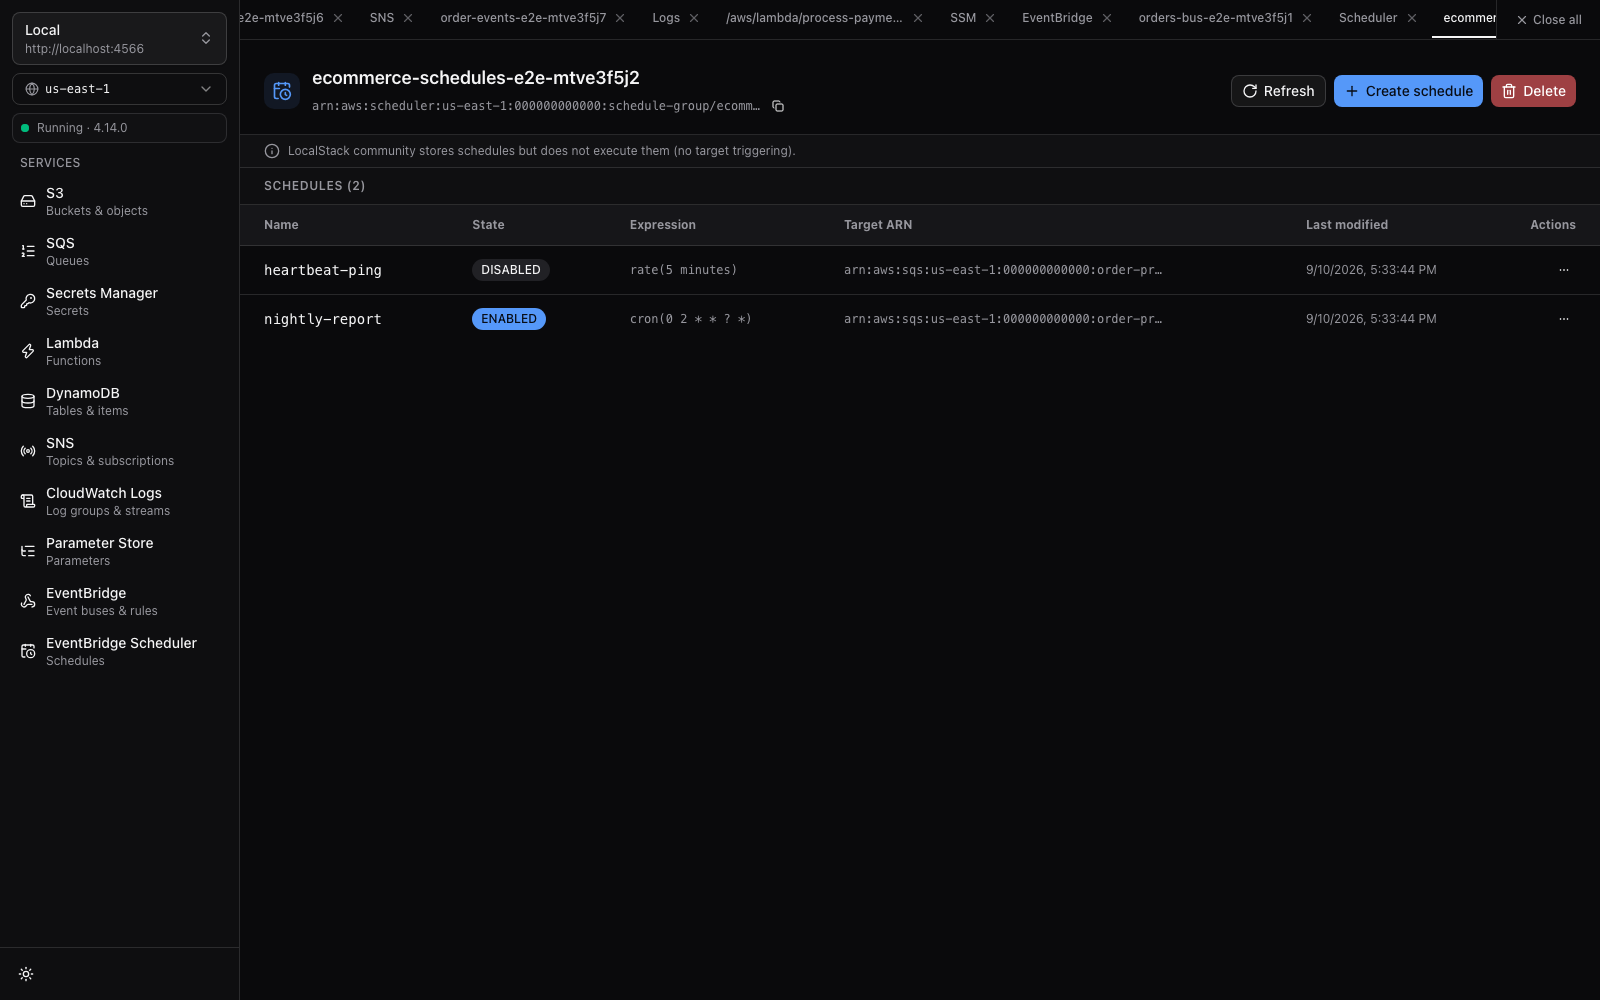
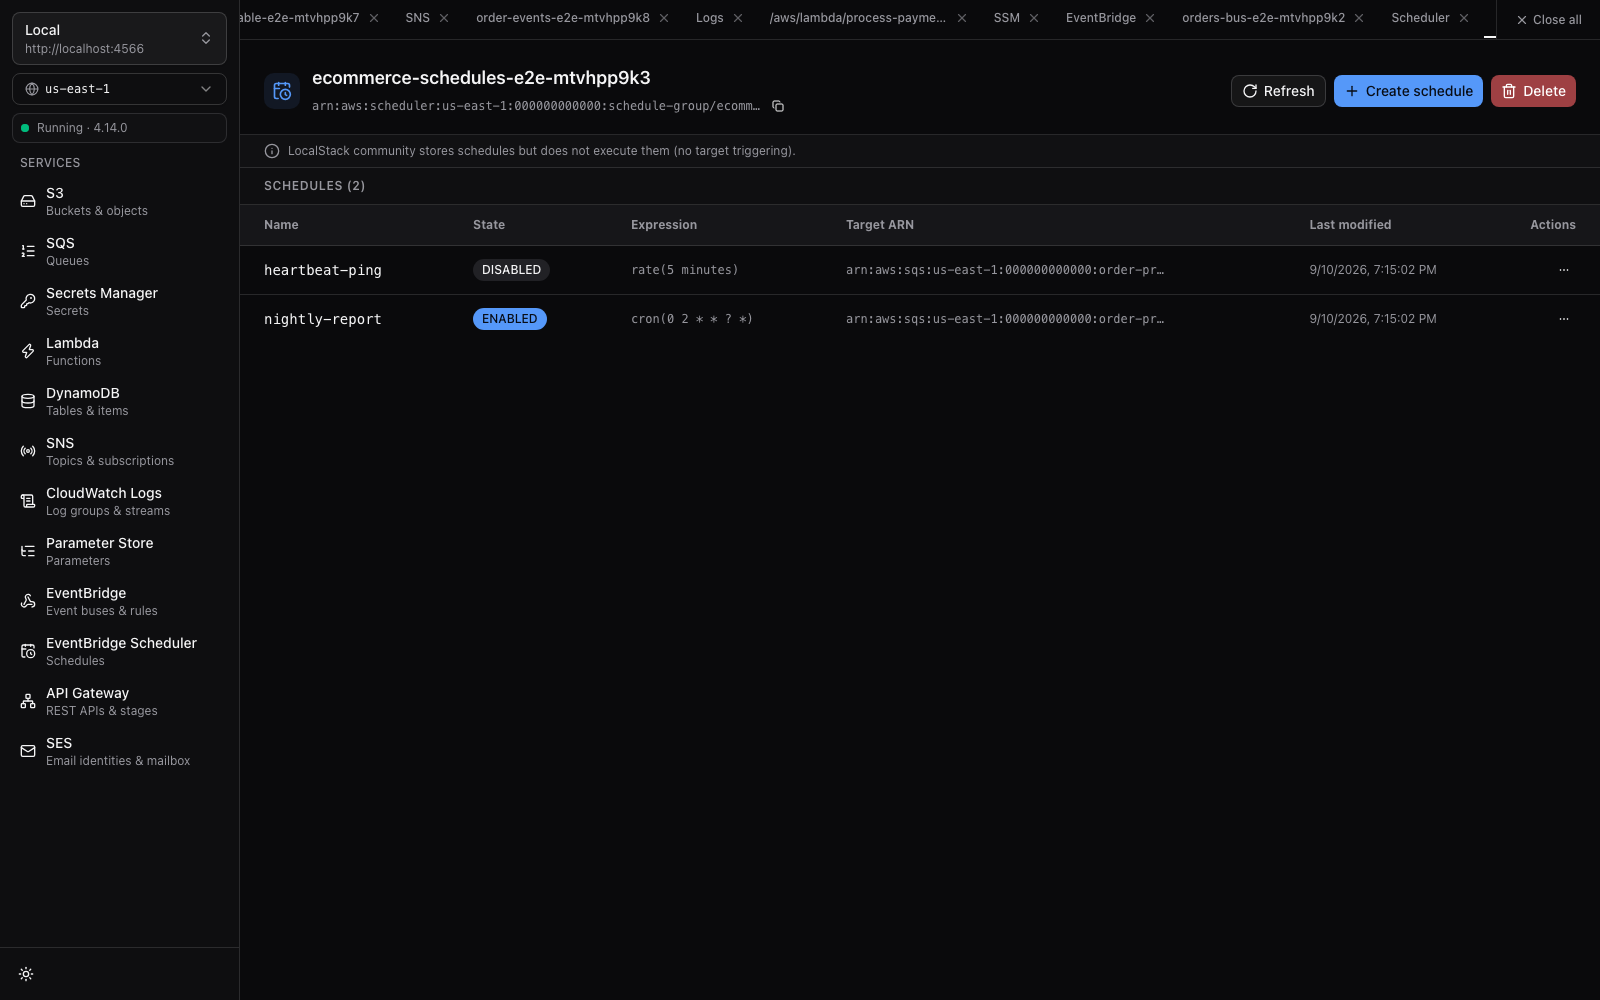
docs: mark M8 shipped with screenshots

diff --git a/e2e/screenshots.spec.ts b/e2e/screenshots.spec.ts
@@ -53,6 +53,22 @@ import {
   DeleteScheduleGroupCommand,
   DeleteScheduleCommand,
 } from "@aws-sdk/client-scheduler";
+import {
+  CreateRestApiCommand,
+  GetResourcesCommand,
+  CreateResourceCommand,
+  PutMethodCommand,
+  PutIntegrationCommand,
+  PutMethodResponseCommand,
+  PutIntegrationResponseCommand,
+  CreateDeploymentCommand,
+  DeleteRestApiCommand,
+} from "@aws-sdk/client-api-gateway";
+import {
+  VerifyEmailIdentityCommand,
+  SendEmailCommand,
+  DeleteIdentityCommand,
+} from "@aws-sdk/client-ses";
 import { GetQueueAttributesCommand } from "@aws-sdk/client-sqs";
 import { zipSync, strToU8 } from "fflate";
 import { requireLocalStack, makeClients, unique } from "./helpers";
@@ -60,7 +76,10 @@ import { requireLocalStack, makeClients, unique } from "./helpers";
 test.describe("@screenshot Capture screenshots", () => {
   test.use({ viewport: { width: 1600, height: 1000 } });
 
-  const { s3, sqs, lambda, dynamodb, dynamoDoc, sns, logs, ssm, eventbridge, scheduler } = makeClients();
+  const { s3, sqs, lambda, dynamodb, dynamoDoc, sns, logs, ssm, eventbridge, scheduler, apigateway, ses } = makeClients();
+  const apiName = unique("petstore-api");
+  let restApiId: string;
+  const sesSender = "team@localstacker.dev";
   const ebBusName = unique("orders-bus");
   const ebRuleName = "order-placed-rule";
   const schedGroupName = unique("ecommerce-schedules");
@@ -339,6 +358,89 @@ test.describe("@screenshot Capture screenshots", () => {
         State: "DISABLED",
       }),
     );
+
+    // 10. Seed API Gateway REST API
+    const apiRes = await apigateway.send(
+      new CreateRestApiCommand({
+        name: apiName,
+        description: "Petstore REST API with stages",
+      }),
+    );
+    restApiId = apiRes.id!;
+    const resourcesRes = await apigateway.send(
+      new GetResourcesCommand({ restApiId, embed: ["methods"] }),
+    );
+    const rootRes = resourcesRes.items?.find((r) => r.path === "/");
+    const rootId = rootRes?.id!;
+    const petRes = await apigateway.send(
+      new CreateResourceCommand({
+        restApiId,
+        parentId: rootId,
+        pathPart: "pets",
+      }),
+    );
+    const petId = petRes.id!;
+
+    await apigateway.send(
+      new PutMethodCommand({
+        restApiId,
+        resourceId: petId,
+        httpMethod: "GET",
+        authorizationType: "NONE",
+        apiKeyRequired: false,
+      }),
+    );
+    await apigateway.send(
+      new PutIntegrationCommand({
+        restApiId,
+        resourceId: petId,
+        httpMethod: "GET",
+        type: "MOCK",
+        requestTemplates: { "application/json": '{"statusCode": 200}' },
+      }),
+    );
+    await apigateway.send(
+      new PutMethodResponseCommand({
+        restApiId,
+        resourceId: petId,
+        httpMethod: "GET",
+        statusCode: "200",
+      }),
+    );
+    await apigateway.send(
+      new PutIntegrationResponseCommand({
+        restApiId,
+        resourceId: petId,
+        httpMethod: "GET",
+        statusCode: "200",
+        responseTemplates: {
+          "application/json": '{"message":"mock response"}',
+        },
+      }),
+    );
+    await apigateway.send(
+      new CreateDeploymentCommand({ restApiId, stageName: "dev" }),
+    );
+
+    // 11. Seed SES identity and message
+    await ses.send(new VerifyEmailIdentityCommand({ EmailAddress: sesSender }));
+    await ses.send(
+      new SendEmailCommand({
+        Source: sesSender,
+        Destination: { ToAddresses: ["developer@localstacker.dev"] },
+        Message: {
+          Subject: { Data: "Welcome to LocalStacker" },
+          Body: {
+            Html: {
+              Data: "<h1>Welcome to LocalStacker</h1><p>Your local cloud environment is running smoothly.</p>",
+            },
+            Text: {
+              Data: "Welcome to LocalStacker. Your local cloud environment is running smoothly.",
+            },
+          },
+        },
+      }),
+    );
   });
 
   test.afterAll(async () => {
@@ -445,6 +547,22 @@ test.describe("@screenshot Capture screenshots", () => {
       ).catch(() => {});
     } catch (err) {
       console.warn("Scheduler cleanup error:", err);
+    }
+
+    // Cleanup API Gateway
+    try {
+      if (restApiId) {
+        await apigateway.send(new DeleteRestApiCommand({ restApiId })).catch(() => {});
+      }
+    } catch (err) {
+      console.warn("API Gateway cleanup error:", err);
+    }
+
+    // Cleanup SES
+    try {
+      await ses.send(new DeleteIdentityCommand({ Identity: sesSender })).catch(() => {});
+    } catch (err) {
+      console.warn("SES cleanup error:", err);
     }
   });
 
@@ -563,5 +681,26 @@ test.describe("@screenshot Capture screenshots", () => {
       page.getByText(/LocalStack community stores schedules but does not execute them/),
     ).toBeVisible();
     await page.screenshot({ path: "docs/screenshots/scheduler-schedules.png", animations: "disabled" });
+
+    // 10. API Gateway REST API screenshot (resource tree + method inspector + stages)
+    await page.locator("aside").getByRole("button", { name: /^API Gateway/ }).click();
+    const apiRow = page.getByText(apiName, { exact: true });
+    await expect(apiRow).toBeVisible({ timeout: 15_000 });
+    await apiRow.click();
+    await expect(page.getByText("/pets", { exact: true })).toBeVisible({ timeout: 10_000 });
+    const getBadge = page.getByTestId("resource-row-/pets").getByText("GET");
+    await getBadge.click();
+    await expect(page.getByText("Method Details")).toBeVisible({ timeout: 10_000 });
+    await page.screenshot({ path: "docs/screenshots/apigateway-api.png", animations: "disabled" });
+
+    // 11. SES captured mailbox screenshot (message list + HTML preview)
+    await page.locator("aside").getByRole("button", { name: /^SES/ }).click();
+    await page.getByRole("button", { name: /Captured mailbox/i }).click();
+    await expect(page.getByRole("heading", { name: "SES Mailbox" })).toBeVisible({ timeout: 10_000 });
+    await expect(page.getByText("Welcome to LocalStacker").first()).toBeVisible({ timeout: 10_000 });
+    await page.getByText("Welcome to LocalStacker").first().click();
+    const iframe = page.locator("iframe[title='HTML email preview']");
+    await expect(iframe).toBeVisible({ timeout: 10_000 });
+    await page.screenshot({ path: "docs/screenshots/ses-mailbox.png", animations: "disabled" });
   });
 });

diff --git a/docs/plan.md b/docs/plan.md
@@ -79,8 +79,8 @@ Notes:
 | **SSM Parameter Store** | M6 (Shipped ✅) | Parameters (path hierarchy & flat views); type badges (`String`, `StringList`, `SecureString`); decrypted value toggle | Create/update parameter; delete parameter; decrypt `SecureString` using local KMS | Parameter tier editing; advanced policies; history diffing |
 | **EventBridge** | M7 (Shipped ✅) | Event buses list (default & custom); rules list per bus (status, schedule/pattern); targets list per rule (target type, ARN, input transformer) | Create/delete event bus; create/edit/delete rule (event pattern JSON editor); add/remove targets; **PutEvents test publisher modal** (DetailType, Source, Detail JSON) | Archive & Replay; Schema Registry; Partner Event Sources; CloudWatch Alarms / cross-region replication |
 | **EventBridge Scheduler** | M7 (Shipped ✅) | Schedule groups; schedules list (state `ENABLED`/`DISABLED`, expression: rate/cron/at, target ARN, time window) | Create/delete schedule (name, group, cron/rate expression, payload JSON, target ARN); enable/disable toggle | Complex retry policies with DLQ routing; cross-account IAM role assumptions |
-| **API Gateway REST API** | M8 | REST APIs list; resource tree hierarchy (`/`, `/{proxy+}`); method inspector (verb, auth, integration: Lambda/Mock/HTTP); stages list with deployment history and direct URL | Create/delete REST API; create resource and method; deploy API to stage; **Built-in Method Test Runner** (path/query params, headers, body → invoke against LocalStack → display status, latency, headers, body, logs) | WebSocket APIs; HTTP APIs v2 (REST only in this slice); Authorizer creation wizards; VPC Links; Usage Plans / API Keys |
-| **SES** | M8 | Verified email addresses and domain identities; **LocalStack Captured Mailbox** (`GET /_localstack/ses`): sent email list with timestamp, sender, recipients, subject, tabbed HTML preview, plaintext preview, raw MIME headers, attachments | Verify email/domain identity; delete identity; **Send test email modal** (To, From, Subject, Text/HTML body) with instant capture into Mailbox | DKIM signing configuration; configuration sets; dedicated IP pools; custom verification email templates |
+| **API Gateway REST API** | M8 (Shipped ✅) | REST APIs list; resource tree hierarchy (`/`, `/{proxy+}`); method inspector (verb, auth, integration: Lambda/Mock/HTTP); stages list with deployment history and direct URL | Create/delete REST API; create resource and method; deploy API to stage; **Built-in Method Test Runner** (path/query params, headers, body → invoke against LocalStack → display status, latency, headers, body, logs) | WebSocket APIs; HTTP APIs v2 (REST only in this slice); Authorizer creation wizards; VPC Links; Usage Plans / API Keys |
+| **SES** | M8 (Shipped ✅) | Verified email addresses and domain identities; **LocalStack Captured Mailbox** (`GET /_aws/ses` / `/_localstack/ses`): sent email list with timestamp, sender, recipients, subject, tabbed HTML preview, plaintext preview, raw MIME headers, attachments | Verify email/domain identity; delete identity; **Send test email modal** (To, From, Subject, Text/HTML body) with instant capture into Mailbox | DKIM signing configuration; configuration sets; dedicated IP pools; custom verification email templates |
 | **IAM** | M9 | Roles list; policies list (AWS managed + customer inline/managed); users list. Role detail: Trust relationship policy doc, attached policies, inline policies with syntax-highlighted JSON viewer. User detail: attached policies, access keys list | Create/delete role; create/update/delete inline role policy; create/delete user; create/deactivate/delete access key; copy ARN / Access Key ID | SAML/OIDC identity providers; Permission Boundaries; Access Analyzer; credential report generation; complex MFA |
 | **Route53** | M9 | Hosted zones list (Domain Name, ID, Type: Public/Private, Record count); ResourceRecordSets virtualized grid (Name, Type: A, AAAA, CNAME, TXT, MX, etc.; TTL; Values / Routing target) | Create/delete hosted zone (domain name, comment, private zone flag); create/edit/delete DNS record sets (name, type, TTL, routing records) | Traffic Flow / Traffic Policies; Health Checks; DNSSEC configuration; Geo-location / latency routing rules |
 | **EC2** | M10 | Instances list (Instance ID, AMI, Type, State badge: running, stopped, terminated, IPs, Security Groups, Key Name); Security Groups list; Key Pairs list. Security Group Inspector: visual matrix of Inbound (Ingress) and Outbound (Egress) rules | Mock Instance state transitions (Start, Stop, Reboot, Terminate); Create/delete Security Group; Authorize/Revoke Security Group Ingress/Egress rules; Create/delete Key Pair (download private key `.pem`) | Launch Templates; EBS volume management / snapshots; Elastic IPs; NAT Gateways; Transit Gateways; complex VPC route tables |
@@ -140,7 +140,7 @@ Notes:
   - EventBridge: `@aws-sdk/client-eventbridge`, bus listing (default/custom), create/delete bus, rules explorer with event pattern JSON viewer, targets list (Lambda, SQS, SNS), rule toggle, PutEvents test event publisher modal.
   - EventBridge Scheduler: `@aws-sdk/client-scheduler`, schedule group explorer, schedule listing (rate/cron/at), create/delete schedule, enable/disable toggle, payload inspector.
   - E2E Playwright test: create bus, create rule with SQS target, publish event via PutEvents modal, assert message received on target queue with matched detail.
-- **M8 — API Gateway REST API & SES (Edge Routing & Email Testing)**:
+- **M8 — API Gateway REST API & SES (Edge Routing & Email Testing)** (Shipped ✅):
   - API Gateway REST: `@aws-sdk/client-api-gateway`, REST APIs list, resource hierarchy tree, method viewer (Lambda/Mock/HTTP integration), stage deployments, built-in Method Test Runner (headers, query params, request body, latency & status inspection).
   - SES: `@aws-sdk/client-ses`, verified email/domain identities management, send test email modal, LocalStack Captured Mailbox (`GET /_localstack/ses`) with tabbed HTML rendered preview, plaintext view, raw headers, and attachments.
   - E2E Playwright test: deploy REST API with mock integration, execute method test invoke in console, assert status 200 + response body; verify email identity, send email via modal, assert email captured in LocalStack Mailbox viewer.

diff --git a/README.md b/README.md
@@ -43,6 +43,8 @@ LocalStacker includes a built-in auto-updater that notifies you when a new relea
 | **SSM Parameter Store** | Parameters in path hierarchy and flat views, type badges (`String`, `StringList`, `SecureString`), decrypted value toggle, create/update/delete |
 | **EventBridge** | Event buses (default & custom), rules explorer with event pattern viewer/editor, target management (Lambda, SQS, SNS), rule enable/disable, PutEvents test event publisher |
 | **EventBridge Scheduler** | Schedule groups, schedules list (rate/cron/at) with enable/disable toggles, create/delete schedules, target & payload inspector |
+| **API Gateway** | REST APIs listing, resource tree, method inspector, stage deployments, **built-in Method Test Runner** (`TestInvokeMethod`) |
+| **SES** | Verified email & domain identities, send test email modal, **LocalStack Captured Mailbox** with HTML, plaintext, raw MIME, and attachment tabs |
 
 ### S3 Object Preview
 ![S3 Object Preview](docs/screenshots/s3-bucket.png)
@@ -68,6 +70,12 @@ LocalStacker includes a built-in auto-updater that notifies you when a new relea
 ### EventBridge Scheduler
 ![EventBridge Scheduler](docs/screenshots/scheduler-schedules.png)
 
+### API Gateway REST API & Method Inspector
+![API Gateway REST API](docs/screenshots/apigateway-api.png)
+
+### SES Captured Mailbox & HTML Email Preview
+![SES Captured Mailbox](docs/screenshots/ses-mailbox.png)
+
 ## Status & Roadmap
 
 **v1.0.0 shipped** ✅. Core milestones implemented and verified with end-to-end coverage:
@@ -82,7 +90,7 @@ LocalStacker includes a built-in auto-updater that notifies you when a new relea
 | **M5** | **DynamoDB & SNS** — table inspector, scan/query, document editor; topic pub/sub & SQS subscription helper | ✅ Done |
 | **M6** | **CloudWatch Logs & SSM Parameter Store** — log groups/streams viewer, live tailing, parameter hierarchy & SecureString decryption | ✅ Done |
 | **M7** | **EventBridge & EventBridge Scheduler** — event buses/rules, PutEvents test publisher, schedules explorer | ✅ Done |
-| **M8** | **API Gateway REST API & SES** — resource tree, method test runner, verified identities & captured mailbox viewer | 📋 Planned |
+| **M8** | **API Gateway REST API & SES** — resource tree, method test runner, verified identities & captured mailbox viewer | ✅ Done |
 | **M9** | **IAM & Route53** — role/policy inspector, access keys, hosted zones & DNS records grid | 📋 Planned |
 | **M10** | **EC2 Mock** — instance states, security groups rule matrix, key pairs | 📋 Planned |
 | **v1.1** | **Docker Lifecycle** — detect, start, stop, and restart LocalStack containers via Docker socket | 🔭 Future |
